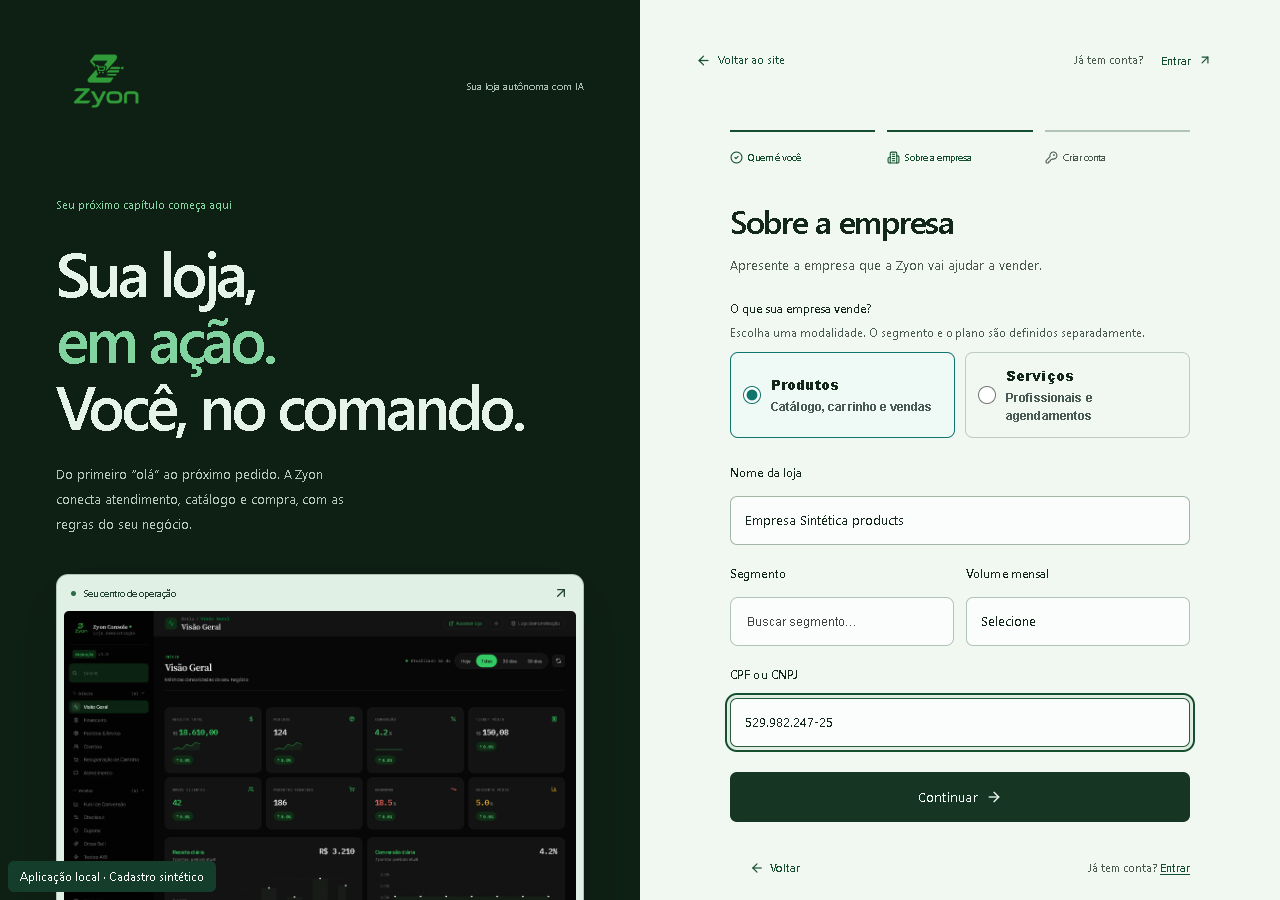
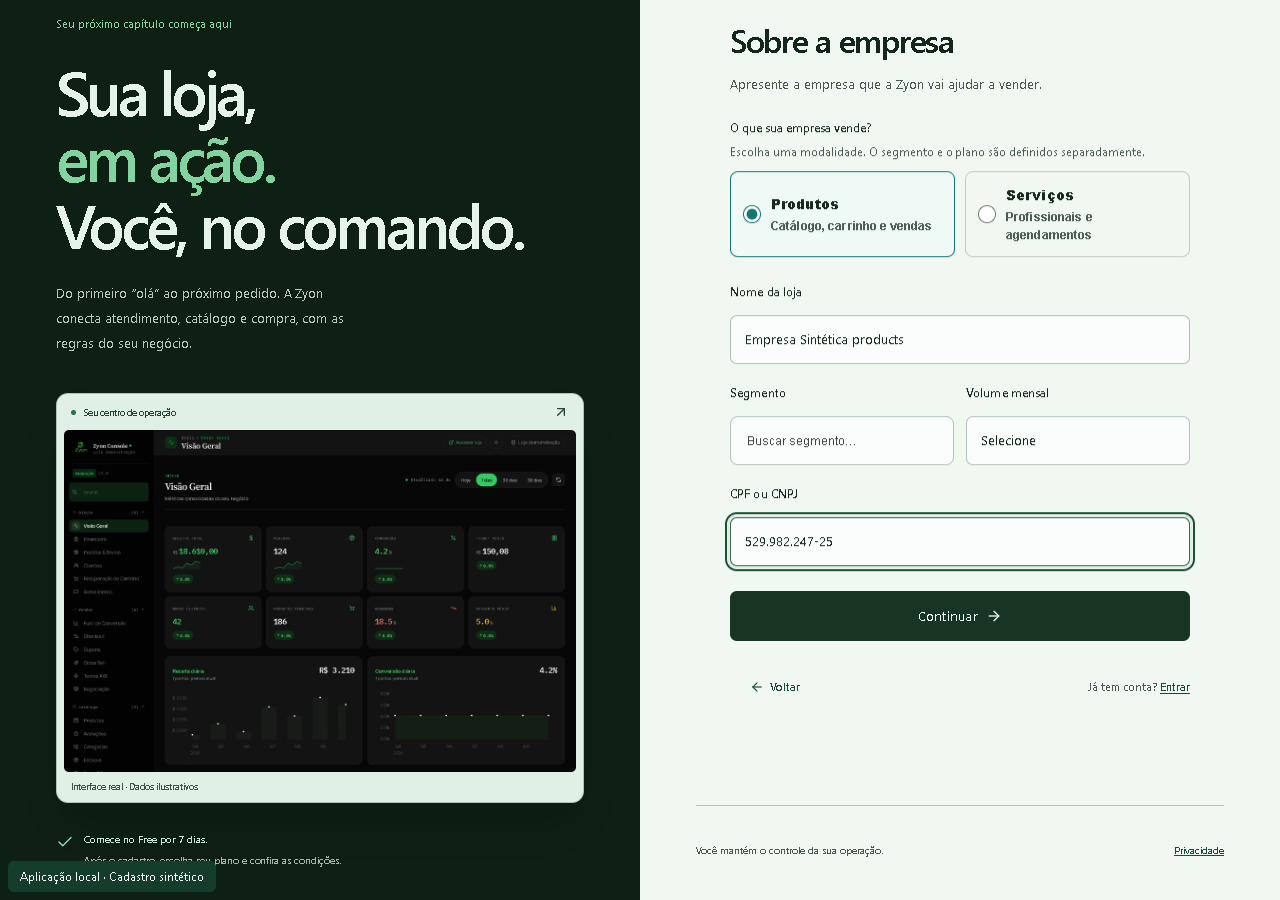
feat(service-business): t16 render about in company data

diff --git a/apps/dashboard/e2e/service-company-about.spec.ts b/apps/dashboard/e2e/service-company-about.spec.ts
@@ -1,0 +1,61 @@
+import {test,expect} from '@playwright/test';
+import {mkdir} from 'node:fs/promises';
+import {resolve} from 'node:path';
+
+test('T16',async({page,context,request})=>{
+  test.setTimeout(120_000); // Includes one unchanged real60s tenant quota window.
+  const origin='http://127.0.0.1:5187';
+  await context.route('**/*',route=>new URL(route.request().url()).origin===origin?route.continue():route.abort('blockedbyclient'));
+  const seeded=await request.post('/__service/company-about');expect(seeded.status()).toBe(200);const auth=await seeded.json();
+  const headers={authorization:'Bearer '+auth.access_token};
+  const reloadCompany=async()=>{
+    const quota=await request.get('/v1/merchants/me/store-settings',{headers});expect(quota.status()).toBe(200);
+    const remaining=Number(quota.headers()['x-ratelimit-remaining']),reset=Number(quota.headers()['x-ratelimit-reset']);
+    expect(Number.isFinite(remaining)).toBe(true);expect(Number.isFinite(reset)).toBe(true);
+    // A full dashboard reload makes several authenticated reads. Respect the
+    // real fixed window before that gesture, without retrying failed responses.
+    if(remaining<20){
+      const delay=Math.max(0,reset*1000+50-Date.now());expect(delay).toBeLessThanOrEqual(61_000);
+      await page.waitForTimeout(delay);
+    }
+    await page.reload();
+  };
+  await page.goto('/?mode=signin');await page.getByLabel('E-mail',{exact:true}).fill(auth.email);await page.getByLabel('Senha',{exact:true}).fill(auth.password);
+  const login=page.waitForResponse(response=>response.url().endsWith('/v1/auth/login')&&response.request().method()==='POST');
+  await page.getByRole('button',{name:'Entrar',exact:true}).last().click();expect((await login).status()).toBe(201);
+  await page.goto('/#store-settings');
+  const about=page.getByLabel('Sobre a empresa',{exact:true});await expect(about).toHaveValue('Apresentação pública sintética para teste local.');
+  await page.getByText('Sobre a empresa',{exact:true}).click();await expect(about).toBeFocused();
+  await expect(about).toHaveAttribute('maxlength','1200');
+  const hint=page.locator('[id="'+await about.getAttribute('aria-describedby')+'"]');await expect(hint).toContainText('Texto público');
+  const button=page.getByRole('button',{name:'Salvar configurações'});
+  await about.fill('a'.repeat(1199));await about.pressSequentially('aa');expect((await about.inputValue()).length).toBe(1200);await expect(hint).toContainText('1200/1.200');
+  const maxSave=page.waitForResponse(response=>response.url().endsWith('/v1/merchants/me/store-settings')&&response.request().method()==='PUT');
+  await button.click();expect((await maxSave).status()).toBe(200);
+  await expect(page.getByText('Dados da loja salvos.',{exact:true})).toBeVisible();
+  const concurrent=await request.put('/v1/merchants/me/store-settings',{headers,data:{company:{email:'novo-comercial@example.test'}}});expect(concurrent.status()).toBe(200);
+  const text='Empresa sintética local. Atendimento comercial e informações públicas revisadas.';
+  await about.fill(text);
+  const saving=page.waitForResponse(response=>response.url().endsWith('/v1/merchants/me/store-settings')&&response.request().method()==='PUT');
+  await button.click();const saved=await saving;expect(saved.status()).toBe(200);expect(saved.request().postDataJSON()).toEqual({company:{description:text}});
+  expect((await (await request.get('/v1/merchants/me/store-settings',{headers})).json()).company.email).toBe('novo-comercial@example.test');
+  await reloadCompany();await expect(about).toHaveValue(text);await expect(page.getByLabel('E-mail de contato')).toHaveValue('novo-comercial@example.test');
+  const artifacts=resolve(process.cwd(),'../../.specs/features/whatsapp-service-booking-business-rag/artifacts');await mkdir(artifacts,{recursive:true});
+  await page.evaluate(()=>{const badge=document.createElement('p');badge.textContent='Aplicação local · Empresa e dados sintéticos';badge.id='local-fixture-label';Object.assign(badge.style,{position:'fixed',bottom:'8px',right:'8px',margin:'0',padding:'8px 12px',background:'#143d2b',color:'#fff',font:'12px system-ui',zIndex:'1000',borderRadius:'6px'});document.body.append(badge);});
+  await page.screenshot({path:resolve(artifacts,'company-about.running.png'),fullPage:true});
+  await page.setViewportSize({width:390,height:844});await expect(about).toBeVisible();
+  expect(await page.evaluate(()=>document.documentElement.scrollWidth>innerWidth)).toBe(false);
+  await about.scrollIntoViewIfNeeded();await expect(about).toBeInViewport();
+  await page.screenshot({path:resolve(artifacts,'company-about-mobile.running.png'),fullPage:true});
+  await page.setViewportSize({width:1440,height:1000});
+  await about.fill('');const clearing=page.waitForResponse(response=>response.url().endsWith('/v1/merchants/me/store-settings')&&response.request().method()==='PUT');
+  await button.click();expect((await clearing).status()).toBe(200);await reloadCompany();await expect(about).toHaveValue('');
+  await about.fill('Rascunho retido após falha local simulada.');
+  await page.route('**/v1/merchants/me/store-settings',async route=>route.request().method()==='PUT'?route.fulfill({status:500,contentType:'application/json',body:'{"message":"synthetic_save_failure"}'}):route.continue());
+  await button.click();await expect(page.locator('.store-settings-page').getByRole('alert').filter({hasText:'Suas alterações foram mantidas'})).toBeVisible();
+  await expect(about).toHaveValue('Rascunho retido após falha local simulada.');
+  expect((await (await request.get('/v1/merchants/me/store-settings',{headers})).json()).company.description).toBe('');
+  await page.unroute('**/v1/merchants/me/store-settings');
+  const retrying=page.waitForResponse(response=>response.url().endsWith('/v1/merchants/me/store-settings')&&response.request().method()==='PUT');
+  await button.click();expect((await retrying).status()).toBe(200);await reloadCompany();await expect(about).toHaveValue('Rascunho retido após falha local simulada.');
+});

diff --git a/apps/dashboard/src/pages/store-settings/store-settings-page.spec.tsx b/apps/dashboard/src/pages/store-settings/store-settings-page.spec.tsx
@@ -1,0 +1,26 @@
+/** @vitest-environment jsdom */
+import React, { act, useState } from "react";
+import { createRoot } from "react-dom/client";
+import { expect, it } from "vitest";
+import { CompanyAboutField } from "./CompanyAboutField.js";
+
+it("T16", async () => {
+  Object.assign(globalThis, { IS_REACT_ACT_ENVIRONMENT: true });
+  const host = document.createElement("div"); document.body.append(host); const root = createRoot(host);
+  function Form() { const [value, setValue] = useState(""); return <CompanyAboutField value={value} onChange={setValue} />; }
+  try {
+    await act(async () => root.render(<Form />));
+    const label = Array.from(host.querySelectorAll("label")).find(item => item.textContent === "Sobre a empresa")!;
+    const textarea = document.getElementById(label.htmlFor) as HTMLTextAreaElement;
+    expect(textarea.tagName).toBe("TEXTAREA"); expect(textarea.maxLength).toBe(1200);
+    textarea.focus(); expect(document.activeElement).toBe(textarea);
+    const setValue = Object.getOwnPropertyDescriptor(HTMLTextAreaElement.prototype, "value")!.set!;
+    await act(async () => { setValue.call(textarea, "Empresa sintética"); textarea.dispatchEvent(new Event("input", { bubbles: true })); });
+    expect(textarea.value).toBe("Empresa sintética");
+    const help = document.getElementById(textarea.getAttribute("aria-describedby")!)!;
+    expect(help.textContent).toContain("Texto público"); expect(help.textContent).toContain("17/1.200");
+    expect(help.textContent).toContain("Não inclua dados privados de clientes");
+    await act(async () => { setValue.call(textarea, ""); textarea.dispatchEvent(new Event("input", { bubbles: true })); });
+    expect(textarea.value).toBe(""); expect(help.textContent).toContain("0/1.200");
+  } finally { await act(async () => root.unmount()); host.remove(); }
+});

diff --git a/apps/dashboard/src/pages/store-settings/store-settings-page.tsx b/apps/dashboard/src/pages/store-settings/store-settings-page.tsx
@@ -15,6 +15,7 @@ import { useStoreSettingsPage, type BusinessHour, type CompanyForm, type Policie
 import { useSeoSettingsTab } from "./useSeoSettingsTab.js";
 import { SeoGtmTab } from "./components/SeoGtmTab.js";
 import { maskPhone, maskCEP, maskCNPJ } from "../../utils/masks.js";
+import { CompanyAboutField } from "./CompanyAboutField.js";
 
 const DAY_LABELS: Record<string, string> = {
   seg: "Segunda", ter: "Terça", qua: "Quarta", qui: "Quinta",
@@ -126,6 +127,7 @@ function CompanyTab({ company, businessHours, cepLoading, onCompanyChange, onHou
           <FormField label="Nome da loja" placeholder="Minha Loja" value={company.storeName} onChange={(v) => onCompanyChange({ ...company, storeName: v })} />
           <FormField label="Razão social" placeholder="Empresa LTDA" value={company.razaoSocial} onChange={(v) => onCompanyChange({ ...company, razaoSocial: v })} />
         </div>
+        <div style={{ marginTop: 24 }}><CompanyAboutField value={company.description} onChange={description => onCompanyChange({ ...company, description })} /></div>
         <div className="admin-fields" style={{ marginTop: 24 }}>
           <FormField label="CNPJ" placeholder="00.000.000/0000-00" value={maskCNPJ(company.cnpj)} onChange={(v) => onCompanyChange({ ...company, cnpj: v.replace(/\D/g, "") })} />
           <FormField label="Inscrição estadual" placeholder="000.000.000" value={company.inscricaoEstadual} onChange={(v) => onCompanyChange({ ...company, inscricaoEstadual: v })} />

diff --git a/apps/dashboard/src/pages/store-settings/CompanyAboutField.tsx b/apps/dashboard/src/pages/store-settings/CompanyAboutField.tsx
@@ -1,0 +1,8 @@
+import React from "react";
+import { FormTextarea } from "../../components/FormField.js";
+
+export function CompanyAboutField({ value, onChange }: { value: string; onChange: (value: string) => void }) {
+  return <FormTextarea label="Sobre a empresa" value={value} onChange={onChange} maxLength={1200} rows={5}
+    placeholder="Apresente a empresa, sua atuação e o que seus clientes precisam saber."
+    hint={`Texto público usado para apresentar sua empresa e orientar o assistente. Inclua somente informações comerciais. Não inclua dados privados de clientes. ${value.length}/1.200 caracteres.`} />;
+}

diff --git a/apps/dashboard/playwright.service-local.config.ts b/apps/dashboard/playwright.service-local.config.ts
@@ -4,7 +4,7 @@ import {fileURLToPath} from 'node:url';
 
 const root=dirname(fileURLToPath(import.meta.url));
 export default defineConfig({
-  testDir:resolve(root,'e2e'),testMatch:'service-product-coexistence.spec.ts',
+  testDir:resolve(root,'e2e'),testMatch:['service-product-coexistence.spec.ts','service-company-about.spec.ts'],
   globalSetup:resolve(root,'e2e/service-local-setup.mjs'),
   fullyParallel:false,workers:1,retries:0,forbidOnly:true,
   timeout:60_000,globalTimeout:600_000,reporter:[['list'],[resolve(root,'e2e/service-local-reporter.mjs')]],

diff --git a/.specs/features/whatsapp-service-booking-business-rag/phase2-preparation.md b/.specs/features/whatsapp-service-booking-business-rag/phase2-preparation.md
@@ -92,3 +92,17 @@ Six preparatory files restored with hashes verified, then the Prisma getter repl
 ## T15 gate
 
 Two preparatory files restored with verified hashes. QuickUI1/1, no skips, actual hook through React createRoot/act plus existing dashboard client and synthetic API fixtures. Canonical description hydrates, minimal payload preserves omitted concurrent data, save/reload/clear/error/retry work, and other tabs omit About. A new1201 edit is rejected; an unchanged legacy1201 description remains visible and omitted when saving another company field. This is unit fixture evidence; actual HTTP/DB was proven in T13/T14 and full browser remains T16.
+
+## T16 browser and phase-close progress
+
+The existing company form now renders CompanyAboutField and its test-only Vite fixture is registered in the existing local browser setup. Component1/1 passed. The first external launcher incorrectly anchored Playwright full titles with ^T16$, selecting zero tests; the actual test and zero-case guard were unchanged. A list-only diagnostic confirmed the approved T16$ selects one case; custom zero-execution reporter was omitted only for --list, never for the gate.
+
+The first actual browser run exercised save1200, exact About-only payload, concurrent public contact preservation, reload, clear, failure draft and retry200; its final reload hit the unchanged tenant60/min quota (trace proves GET429/Retry-After50). Root authorized the unpublished fixture to wait once on the real Reset header before each reload when remaining<20, and a120s budget only for this long case. No retry/renewable polling, global timeout, quota, production guard or5s cleanup change. Mobile capture now scrolls the About control into view in the app's internal scroll container.
+
+Final T16 browser1/1, no skips/retries, case1.5min/total3min with natural teardown exit0. Desktop/mobile screenshots at artifacts/company-about.running.png and company-about-mobile.running.png were inspected and sent to root; both are explicitly local synthetic data. API14 remains unchanged. Phase-close units API21/21 and dashboard27/27 passed; all4 types/build, lint and phase native/browser regressions are recorded below before T16 completion/commit. The new service-name request is separate T96/T97 and has no source changes in this task.
+
+## T16 and original Phase2 completion
+
+Original T10?T16 gates are green locally. After merging committed1f315+P19 as dcd8b8cc2, all5272 copied API/package outputs were byte-verified and full assertServiceArtifacts matched411a4306/f9a66c41, checked2498sources. No mutable Prisma/dependency copying or artifact-manifest changes. Updated APItypecheck/lint0 (two unchanged warnings), APIunits21/21, UI27/27, real AppModule natives65/65 and browserT3/T10/T16 all3/3 passed, zero skips/retries and natural cleanup0/timers[]. The original T8 file retains12business subcases plus its root,13executed. The scanner shutdown fix is an upstream separate production change, not a claim about the old unchanged T11 rerun.
+
+All four apps types/build passed; API build was reused from the actual P19checked artifact, while the three frontend builds ran locally. The external frontend launcher first lost LOCALAPPDATA before the official cache preflight; only its toolcache env was restored and only the missing dashboardbuild/storefronttypes/build resumed. All1471frontend source/config/package inputs remained byte-identical through builds and API alignment (7a210887...). Captures were regenerated by the final browser regression, including the preserved T3/T10 tests, and are recorded in task-16-evidence.json. No final feature proof/verifier or remote action was run. New ONB-06/T96/T97 remains a separate supplement after this original phase barrier.

diff --git a/.specs/features/whatsapp-service-booking-business-rag/tasks.md b/.specs/features/whatsapp-service-booking-business-rag/tasks.md
@@ -460,12 +460,12 @@ T97 → T95
 
 **Done when**:
 
-- [ ] Resultado descrito em What demonstrado; autorização/estado e negativas aplicáveis cobertos sem alterar comportamento aprovado de produto.
-- [ ] store-settings-page.about.spec.tsx e browser QA-02: foco, limite, salvar/reabrir, feedback de erro.
-- [ ] Gate Browser passa, contagem executada registrada e testes existentes preservados. Tarefa marcada e commit atômico próprio; sem push/deploy.
+- [x] Resultado descrito em What demonstrado; autorização/estado e negativas aplicáveis cobertos sem alterar comportamento aprovado de produto.
+- [x] store-settings-page.spec.tsx e browser QA-02: foco, limite, salvar/reabrir, feedback de erro.
+- [x] Gate Browser passa, contagem executada registrada e testes existentes preservados. Tarefa marcada e commit atômico próprio; sem push/deploy.
 
-**Tests**: store-settings-page.about.spec.tsx e browser QA-02: foco, limite, salvar/reabrir, feedback de erro.
-**Gate**: Browser: `pnpm --dir apps/dashboard exec vitest run src/pages/store-settings/store-settings-page.spec.tsx -t "^T16$"` + `pnpm --dir apps/dashboard exec playwright test --config playwright.service-local.config.ts e2e/service-product-coexistence.spec.ts --grep "T16$"` Teste raiz T16 exercita o resultado desta tarefa e seus subcasos; pelo menos um executado, nenhum skipped. Os checks finais por ID abaixo continuam obrigatórios.
+**Tests**: store-settings-page.spec.tsx e browser QA-02: foco, limite, salvar/reabrir, feedback de erro.
+**Gate**: Browser: `pnpm --dir apps/dashboard exec vitest run src/pages/store-settings/store-settings-page.spec.tsx -t "^T16$"` + `pnpm --dir apps/dashboard exec playwright test --config playwright.service-local.config.ts e2e/service-company-about.spec.ts --grep "T16$"` Teste raiz T16 exercita o resultado desta tarefa e seus subcasos; pelo menos um executado, nenhum skipped. Os checks finais por ID abaixo continuam obrigatórios.
 **Commit**: `feat(service-business): t16 render about in company data`
 
 ### T17: Guard new catalog writes by business mode

diff --git a/.specs/features/whatsapp-service-booking-business-rag/spec.md b/.specs/features/whatsapp-service-booking-business-rag/spec.md
@@ -231,7 +231,7 @@ O Zyon já vende produtos pelo WhatsApp e tem componentes de serviços, slots e 
 | ONB-02 | Conditional navigation and API | T7, T9, T10, T17, T19, T94 | In Progress (T17 and T19 complete) |
 | ONB-03 | Merchant appointment policy | T4, T7, T11, T27, T81 | Pending |
 | ONB-04 | Non-destructive mode change | T5, T7, T12, T17 | In Progress (T17 complete) |
-| ONB-05 | About field in company data | T13, T14, T15, T16 | Pending |
+| ONB-05 | About field in company data | T13, T14, T15, T16 | Implemented locally |
 | ONB-06 | Service-name list in company data, services only | T96, T97, T63, T72 | Pending |
 | AGENDA-01 | Professional resources | T4, T18, T20, T21, T76 | In Progress (T18 complete) |
 | AGENDA-02 | Dates | T23, T24, T43, T44, T45 | Pending |
